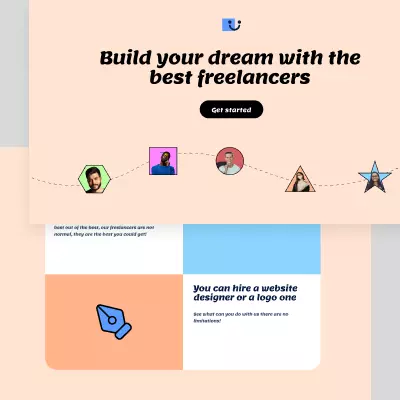
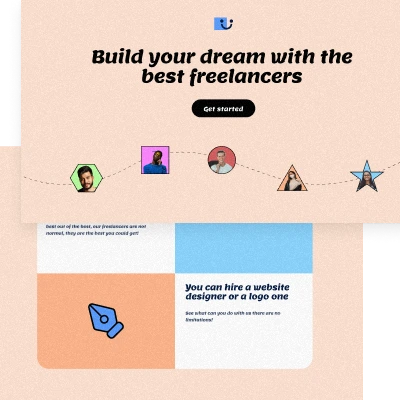
better doodles positioning

diff --git a/src/lib/components/Scope.svelte b/src/lib/components/Scope.svelte
@@ -1,6 +1,6 @@
 <script lang="ts">
 	import image1 from '$lib/assets/doodles/D10.svg'
-	import image2 from '$lib/assets/doodles/D11.svg'
+	import image2 from '$lib/assets/doodles/D9.svg'
 	import { inview } from 'svelte-inview'
 
 	const scope = [
@@ -30,36 +30,36 @@
 		'Icons'
 	]
 
+	let lazyLoad: boolean
+
+	const options = {
+		rootMargin: '50px',
+		unobserveOnEnter: true
+	}
+
 	function handleEnter({ detail }: CustomEvent<ObserverEventDetails>) {
 		detail.node.classList.add('enter')
 	}
 </script>
 
-<section class="bg-base-100 py-20 sm:py-32 relative">
+<section use:inview={options} on:enter={() => (lazyLoad = true)} class="bg-base-100 py-20 sm:py-32 relative">
 	<div class="mx-auto max-w-7xl px-4 sm:px-6 lg:px-8 grid gap-24">
 		<section>
 			<h2 class="text-3xl sm:text-5xl font-bold text-center">Apps, websites, logos & more.</h2>
 		</section>
-		<ul class="grid grid-cols-1 sm:grid-cols-3 gap-8 p-4 sm:p-10 border-base-200 border-8 rounded-3xl relative">
+		<ul class="grid grid-cols-1 sm:grid-cols-3 gap-8 p-4 sm:p-10 border-base-300 border-8 rounded-3xl relative">
 			{#each scope as item}
-				<li class="border-b-4 border-base-200 pb-2 ">
+				<li class="border-b-4 border-base-300 pb-2 ">
 					<h2 class="text-xl font-semibold">{item}</h2>
 				</li>
 			{/each}
-			<img
-				use:inview
-				on:enter={handleEnter}
-				src={image1}
-				alt="Doodle"
-				class="absolute w-[16vw] max-w-[100px] -right-[3%] top-0 opacity-0 z-10 translate-x-20"
-			/>
+			{#if lazyLoad}
+				<img src={image1} alt="Doodle" class="absolute w-[16vw] max-w-[100px] top-0 right-0 z-10 -translate-y-1/2 translate-x-1/2" />
+			{/if}
 		</ul>
 	</div>
-	<img
-		use:inview
-		on:enter={handleEnter}
-		src={image2}
-		alt="Doodle"
-		class="absolute w-[16vw] max-w-[100px] right-0 left-0 mx-auto -bottom-[8%] opacity-0 z-10 -translate-y-8"
-	/>
+
+	{#if lazyLoad}
+		<img src={image2} alt="Doodle" class="absolute w-[16vw] max-w-[100px] top-0 left-0 z-10 -translate-y-1/2" />
+	{/if}
 </section>

diff --git a/src/lib/components/Pricing.svelte b/src/lib/components/Pricing.svelte
@@ -1,5 +1,6 @@
 <script lang="ts">
 	import { inview } from 'svelte-inview'
+	import image1 from '$lib/assets/doodles/D11.svg'
 
 	interface Plans {
 		header: string
@@ -33,22 +34,25 @@
 		}
 	]
 
+	let lazyLoad: boolean
+
+	const options = {
+		rootMargin: '50px',
+		unobserveOnEnter: true
+	}
+
 	function handleEnter({ detail }: CustomEvent<ObserverEventDetails>) {
 		detail.node.classList.add('enter')
 	}
 </script>
 
-<section class="bg-base-200 py-20 sm:py-32" id="Pricing">
+<section use:inview={options} on:enter={() => (lazyLoad = true)} class="bg-base-200 py-20 sm:py-32 relative" id="Pricing">
 	<div class="mx-auto max-w-7xl px-4 sm:px-6 lg:px-8 grid gap-16">
 		<section use:inview on:enter={handleEnter} class="grid gap-8 text-center opacity-0 translate-y-8">
 			<h2 class="text-3xl sm:text-5xl font-semibold">Memberships levels</h2>
 			<p class="text-2xl">Choose a plan that's right for you.</p>
 		</section>
-		<ul
-			use:inview
-			on:enter={handleEnter}
-			class="grid grid-cols-1 sm:grid-cols-3 gap-8 rounded-3xl opacity-0 translate-y-8"
-		>
+		<ul use:inview on:enter={handleEnter} class="grid grid-cols-1 sm:grid-cols-3 gap-8 rounded-3xl opacity-0 translate-y-8">
 			{#each plans as plan}
 				<li class="flex flex-col gap-8 p-6 rounded-3xl bg-base-100">
 					<h2 class="text-sm font-semibold">{plan.header}</h2>
@@ -86,4 +90,8 @@
 			<h2 class="text-3xl font-semibold">$999/m</h2>
 		</section>
 	</div>
+
+	{#if lazyLoad}
+		<img src={image1} alt="Doodle" class="absolute top-0 left-0 right-0 mx-auto z-10 -translate-y-1/2" />
+	{/if}
 </section>

diff --git a/src/lib/components/Protfolio.svelte b/src/lib/components/Protfolio.svelte
@@ -1,9 +1,10 @@
 <script lang="ts">
-	import image1 from '$lib/assets/images/work-1.webp'
-	import image2 from '$lib/assets/images/work-2.webp'
-	import image3 from '$lib/assets/images/work-3.webp'
-	import image4 from '$lib/assets/images/work-4.webp'
-	import image5 from '$lib/assets/doodles/D9.svg'
+	import image1 from '$lib/assets/images/Work1.webp'
+	import image2 from '$lib/assets/images/Work2.webp'
+	import image3 from '$lib/assets/images/Work3.webp'
+	import image4 from '$lib/assets/images/Work4.webp'
+	import image6 from '$lib/assets/doodles/D7.svg'
+	import image7 from '$lib/assets/doodles/D8.svg'
 	import { inview } from 'svelte-inview'
 	import type { ObserverEventDetails, Options } from 'svelte-inview'
 
@@ -81,8 +82,6 @@
 					<li>
 						{#if lazyLoad}
 							<img src={item.image} alt={item.alt} class="h-6" />
-						{:else}
-							<div class="h-[24px]" />
 						{/if}
 					</li>
 				{/each}
@@ -91,12 +90,7 @@
 	</div>
 
 	{#if lazyLoad}
-		<img
-			use:inview
-			on:enter={handleEnter}
-			src={image5}
-			alt="Doodle"
-			class="absolute w-[16vw] max-w-[100px] left-5 -bottom-[4%] opacity-0 z-10 -translate-x-24"
-		/>
+		<img src={image7} alt="Doodle" class="absolute w-[16vw] max-w-[100px] top-0 right-0 z-10 -translate-y-1/2" />
+		<img src={image6} alt="Doodle" class="absolute w-[16vw] max-w-[100px] top-0 right-0 left-0 mx-auto z-10 -translate-y-1/2" />
 	{/if}
 </section>

diff --git a/src/lib/components/Faq.svelte b/src/lib/components/Faq.svelte
@@ -2,7 +2,8 @@
 	import { Disclosure, DisclosureButton, DisclosurePanel } from '@rgossiaux/svelte-headlessui'
 	import { slide } from 'svelte/transition'
 	import image1 from '$lib/assets/doodles/D12.svg'
-	import image2 from '$lib/assets/doodles/D13.svg'
+	import image2 from '$lib/assets/doodles/D6.svg'
+	import image3 from '$lib/assets/doodles/D13.svg'
 	import { inview } from 'svelte-inview'
 
 	interface FaqItem {
@@ -105,19 +106,8 @@
 	</div>
 
 	{#if lazyLoad}
-		<img
-			use:inview
-			on:enter={handleEnter}
-			src={image1}
-			alt="Doodle"
-			class="absolute w-[16vw] max-w-[220px] -top-[5%] right-0 mx-auto opacity-0 z-10 translate-x-36"
-		/>
-		<img
-			use:inview
-			on:enter={handleEnter}
-			src={image2}
-			alt="Doodle"
-			class="absolute w-[16vw] max-w-[130px] -bottom-[5%] left-5 mx-auto opacity-0 z-10 -translate-x-36"
-		/>
+		<img src={image1} alt="Doodle" class="absolute w-[16vw] max-w-[220px] top-0 right-0 z-10 -translate-y-1/2" />
+		<img src={image2} alt="Doodle" class="absolute w-[16vw] max-w-[30px] top-0 right-0 left-0 mx-auto z-10 -translate-y-1/2" />
+		<img src={image3} alt="Doodle" class="absolute w-[16vw] max-w-[130px] top-0 left-0 z-10 -translate-y-1/2" />
 	{/if}
 </section>

diff --git a/src/lib/components/How.svelte b/src/lib/components/How.svelte
@@ -59,20 +59,8 @@
 			on:enter={handleEnter}
 		>
 			{#if lazyLoad}
-				<img
-					use:inview
-					on:enter={handleEnter}
-					src={image1}
-					alt="Doodle"
-					class="absolute w-[16vw] max-w-[200px] -left-[5%] -top-[9%] opacity-0 -translate-x-44"
-				/>
-				<img
-					use:inview
-					on:enter={handleEnter}
-					src={image2}
-					alt="Doodle"
-					class="absolute w-[16vw] max-w-[200px] -right-[8%] -bottom-[10%] opacity-0 translate-x-44"
-				/>
+				<img src={image1} alt="Doodle" class="absolute w-[16vw] max-w-[150px] top-0 left-0 -translate-x-1/2 -translate-y-1/2 " />
+				<img src={image2} alt="Doodle" class="absolute w-[16vw] max-w-[150px] bottom-0 right-0 translate-x-1/2 translate-y-1/2" />
 				<!-- !!! CHANGE THIS! -->
 				<!-- 
 				<img class="h-8" src="https://assets.website-files.com/5837424ae11409586f837994/6119d7a83723f6d0114590ab_quotation.svg" alt="" />
@@ -81,13 +69,6 @@
 			{/if}
 		</section>
 	</div>
-	<img
-		use:inview
-		on:enter={handleEnter}
-		src={image3}
-		alt="Doodle"
-		class="absolute w-[16vw] max-w-[250px] -left-[2%] -translate-x-44 z-10"
-	/>
 </section>
 
 <style>

diff --git a/src/lib/components/Benefits.svelte b/src/lib/components/Benefits.svelte
@@ -1,6 +1,5 @@
 <script lang="ts">
-	import image1 from '$lib/assets/doodles/D7.svg'
-	import image2 from '$lib/assets/doodles/D8.svg'
+	import image1 from '$lib/assets/doodles/D6.svg'
 	import Scale from '$lib/assets/icons/Scale.svelte'
 	import Stars from '$lib/assets/icons/Stars.svelte'
 	import Fee from '$lib/assets/icons/Fee.svelte'
@@ -85,19 +84,6 @@
 	</div>
 
 	{#if lazyLoad}
-		<img
-			use:inview
-			on:enter={handleEnter}
-			src={image1}
-			alt="Doodle"
-			class="absolute w-[16vw] max-w-[100px] right-0 left-0 mx-auto -bottom-[6%] z-10 opacity-0 -translate-y-8 rotate-3"
-		/>
-		<img
-			use:inview
-			on:enter={handleEnter}
-			src={image2}
-			alt="Doodle"
-			class="absolute w-[16vw] max-w-[150px] right-2 -bottom-[10%] z-10 opacity-0 translate-x-32"
-		/>
+		<img src={image1} alt="Doodle" class="absolute w-[16vw] max-w-[30px] top-0 right-0 left-0 mx-auto z-10 -translate-y-1/2" />
 	{/if}
 </section>

diff --git a/src/lib/components/Hero.svelte b/src/lib/components/Hero.svelte
@@ -15,7 +15,7 @@
 	}
 </script>
 
-<section use:inview={options} on:enter={() => (lazyLoad = true)} class="bg-base-300 py-16 sm:pb-24 sm:pt-44 relative">
+<section use:inview={options} on:enter={() => (lazyLoad = true)} class="bg-base-300 py-16 sm:pb-24 sm:pt-44 relative overflow-hidden">
 	<div class="mx-auto max-w-7xl px-4 sm:px-6 lg:px-8 grid gap-10 place-content-center">
 		<section use:inview on:enter={handleEnter} class="flex flex-col gap-8 text-center max-w-4xl max-h-96 opacity-0 translate-y-8">
 			<h1 class="text-3xl sm:text-6xl font-bold ">Your designing partner- Unlike you've ever seen before</h1>

diff --git a/src/lib/components/Features.svelte b/src/lib/components/Features.svelte
@@ -1,5 +1,5 @@
 <script lang="ts">
-	import image1 from '$lib/assets/doodles/D6.svg'
+	import image1 from '$lib/assets/doodles/D5.svg'
 	import { inview } from 'svelte-inview'
 	const List = [
 		{
@@ -63,12 +63,6 @@
 	</div>
 
 	{#if lazyLoad}
-		<img
-			use:inview
-			on:enter={handleEnter}
-			src={image1}
-			alt="Doodle"
-			class="absolute w-[16vw] max-w-[30px] right-0 left-0 mx-auto -bottom-[6%] opacity-0 z-10 -translate-y-8"
-		/>
+		<img src={image1} alt="Doodle" class="absolute w-[16vw] max-w-[130px] top-0 left-0 z-10 -translate-y-1/2" />
 	{/if}
 </section>

diff --git a/src/app.html b/src/app.html
@@ -6,7 +6,7 @@
 		<meta name="viewport" content="width=device-width" />
 		%sveltekit.head%
 	</head>
-	<body class="overflow-x-hidden" data-sveltekit-prefetch>
+	<body data-sveltekit-prefetch>
 		<div>%sveltekit.body%</div>
 	</body>
 </html>

diff --git a/src/app.css b/src/app.css
@@ -5,11 +5,12 @@
 @tailwind utilities;
 
 @layer base {
-	html {
-		scroll-behavior: smooth;
-	}
 	body {
 		font-family: 'Quicksand', sans-serif;
+		scroll-behavior: smooth;
+	}
+	main {
+		overflow: hidden;
 	}
 }
 
